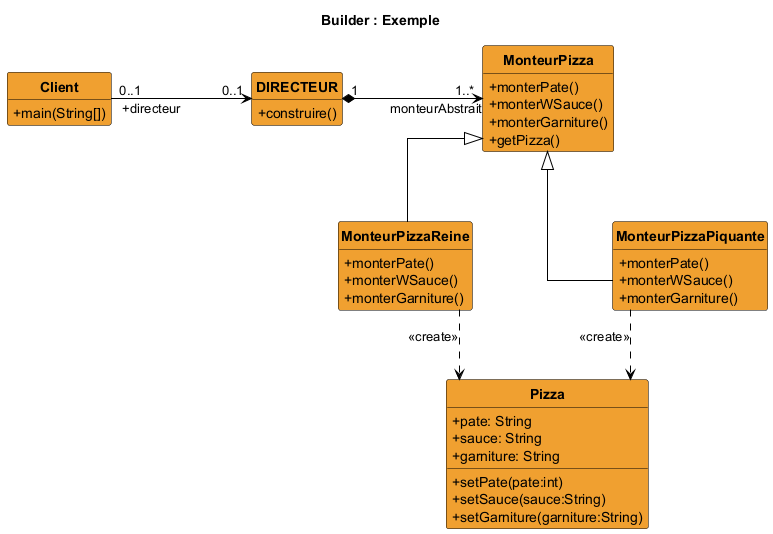
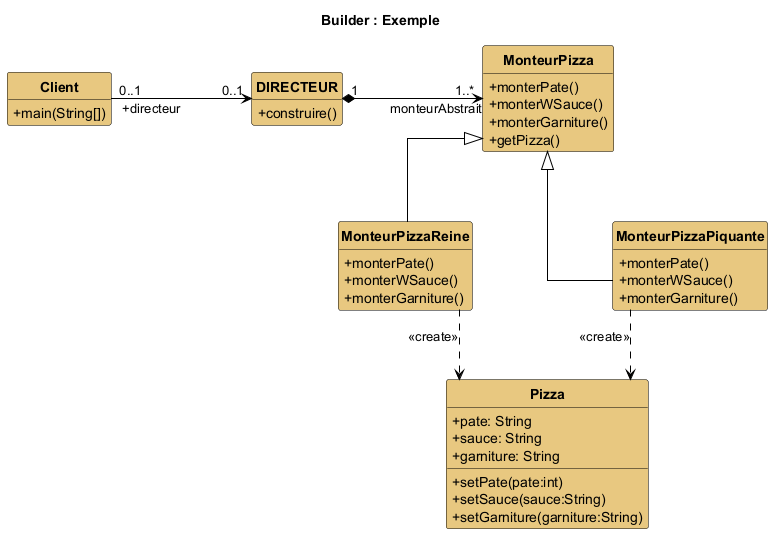
Packages, diagrammes et couleurs alignes sur le support de cours

diff --git a/src/main/java/exemple/model/modifie/Client.java b/src/main/java/exemple/model/modifie/Client.java
@@ -1,4 +1,4 @@
-package builder.cours;
+package exemple.model.modifie;
 
 public class Client {
 
@@ -14,6 +14,10 @@ public class Client {
     //construire pizza piquante
     System.out.println(".......................Pizza Piquante Fabriquée.................");
     directeur.construirePizzaPiquante().print();
+
+    //construire pizza vegetarienne
+    System.out.println(".......................Pizza Vegetarienne Fabriquée.................");
+    directeur.construirePizzaVegetarienne().print();
 
 
 

diff --git a/src/main/java/exemple/model/Client.java b/src/main/java/exemple/model/Client.java
@@ -1,4 +1,4 @@
-package builder.modifie;
+package exemple.model;
 
 public class Client {
 
@@ -14,10 +14,6 @@ public class Client {
     //construire pizza piquante
     System.out.println(".......................Pizza Piquante Fabriquée.................");
     directeur.construirePizzaPiquante().print();
-
-    //construire pizza vegetarienne
-    System.out.println(".......................Pizza Vegetarienne Fabriquée.................");
-    directeur.construirePizzaVegetarienne().print();
 
 
 

diff --git a/src/main/java/exemple/model/modifie/MonteurPizza.java b/src/main/java/exemple/model/modifie/MonteurPizza.java
@@ -1,4 +1,4 @@
-package builder.modifie;
+package exemple.model.modifie;
 
 public abstract class MonteurPizza {
     protected Pizza pizza=new Pizza() ;

diff --git a/src/main/java/exemple/model/MonteurPizza.java b/src/main/java/exemple/model/MonteurPizza.java
@@ -1,4 +1,4 @@
-package builder.cours;
+package exemple.model;
 
 public abstract class MonteurPizza {
     protected Pizza pizza=new Pizza() ;

diff --git a/src/main/java/exemple/model/modifie/MonteurPizzaVegetarienne.java b/src/main/java/exemple/model/modifie/MonteurPizzaVegetarienne.java
@@ -1,4 +1,4 @@
-package builder.modifie;
+package exemple.model.modifie;
 
 public class MonteurPizzaVegetarienne extends MonteurPizza {
 

diff --git a/src/main/java/exemple/model/modifie/MonteurPizzaPiquante.java b/src/main/java/exemple/model/modifie/MonteurPizzaPiquante.java
@@ -1,4 +1,4 @@
-package builder.modifie;
+package exemple.model.modifie;
 
 public class MonteurPizzaPiquante extends MonteurPizza {
 

diff --git a/src/main/java/exemple/model/modifie/MonteurPizzaReine.java b/src/main/java/exemple/model/modifie/MonteurPizzaReine.java
@@ -1,4 +1,4 @@
-package builder.modifie;
+package exemple.model.modifie;
 
 public class MonteurPizzaReine extends MonteurPizza {
 

diff --git a/src/main/java/exemple/model/modifie/Pizza.java b/src/main/java/exemple/model/modifie/Pizza.java
@@ -1,4 +1,4 @@
-package builder.cours;
+package exemple.model.modifie;
 
 public class Pizza {
     private String pate = "";

diff --git a/src/main/java/exemple/model/MonteurPizzaPiquante.java b/src/main/java/exemple/model/MonteurPizzaPiquante.java
@@ -1,4 +1,4 @@
-package builder.cours;
+package exemple.model;
 
 public class MonteurPizzaPiquante extends MonteurPizza {
 

diff --git a/src/main/java/exemple/model/MonteurPizzaReine.java b/src/main/java/exemple/model/MonteurPizzaReine.java
@@ -1,4 +1,4 @@
-package builder.cours;
+package exemple.model;
 
 public class MonteurPizzaReine extends MonteurPizza {
 

diff --git a/src/main/java/exemple/model/Pizza.java b/src/main/java/exemple/model/Pizza.java
@@ -1,4 +1,4 @@
-package builder.modifie;
+package exemple.model;
 
 public class Pizza {
     private String pate = "";

diff --git a/src/main/java/exemple/model/modifie/Directeur.java b/src/main/java/exemple/model/modifie/Directeur.java
@@ -1,4 +1,4 @@
-package builder.modifie;
+package exemple.model.modifie;
 
 public class Directeur {
 
